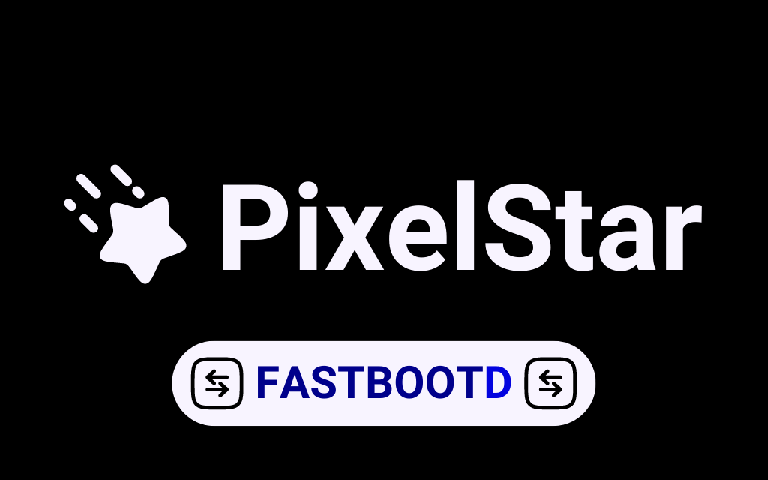
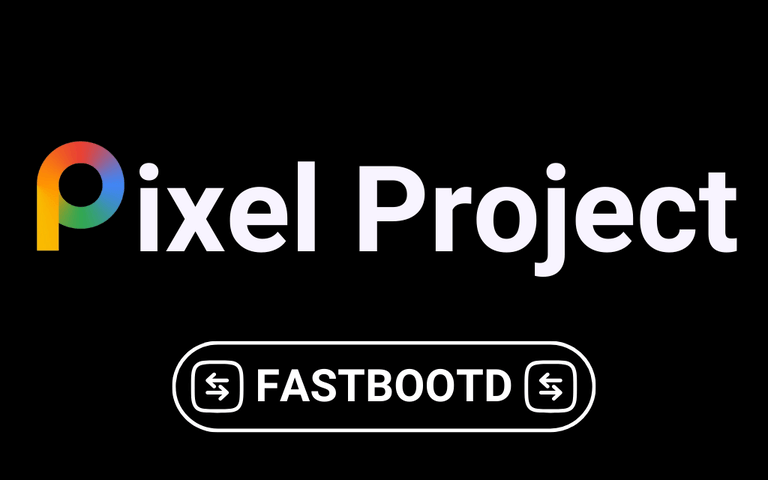
recovery: Rebrand to Pixel Project

Changed region(s): [[0.0312, 0.2812, 0.9688, 0.5938], [0.2188, 0.6875, 0.7812, 0.9062]]

diff --git a/recovery.cpp b/recovery.cpp
@@ -829,11 +829,11 @@ Device::BuiltinAction start_recovery(Device* device, const std::vector<std::stri
   // Extract the YYYYMMDD / YYYYMMDD_HHMMSS timestamp from the full version string.
   // Assume the first instance of "-[0-9]{8}-", or "-[0-9]{8}_[0-9]{6}-" in case
   // PIXELSTAR_VERSION_APPEND_TIME_OF_DAY is set to true has the desired date.
-  std::string ver = android::base::GetProperty("ro.pixelstar.base.version", "");
+  std::string ver = android::base::GetProperty("org.pixelproject.base.version", "");
   std::string ver_date = android::base::GetProperty("ro.system.build.version.release_or_codename", "");  // Empty if no match.
 
   std::vector<std::string> title_lines = {
-    "Version: " + android::base::GetProperty("ro.pixelstar.base.version", "(unknown)") +
+    "Version: " + android::base::GetProperty("org.pixelproject.base.version", "(unknown)") +
         " (" + ver_date + ")",
   };
   title_lines.push_back("Product name - " + android::base::GetProperty("ro.product.device", ""));

diff --git a/recovery_ui/include/recovery_ui/screen_ui.h b/recovery_ui/include/recovery_ui/screen_ui.h
@@ -150,7 +150,7 @@ class TextMenu : public Menu {
   size_t MenuEnd() const;
 
   // Menu example:
-  // info:                           Pixelstar Recovery
+  // info:                           Pixel-Project Recovery
   //                                 ....
   // help messages:                  Swipe up/down to move
   //                                 Swipe left/right to select
